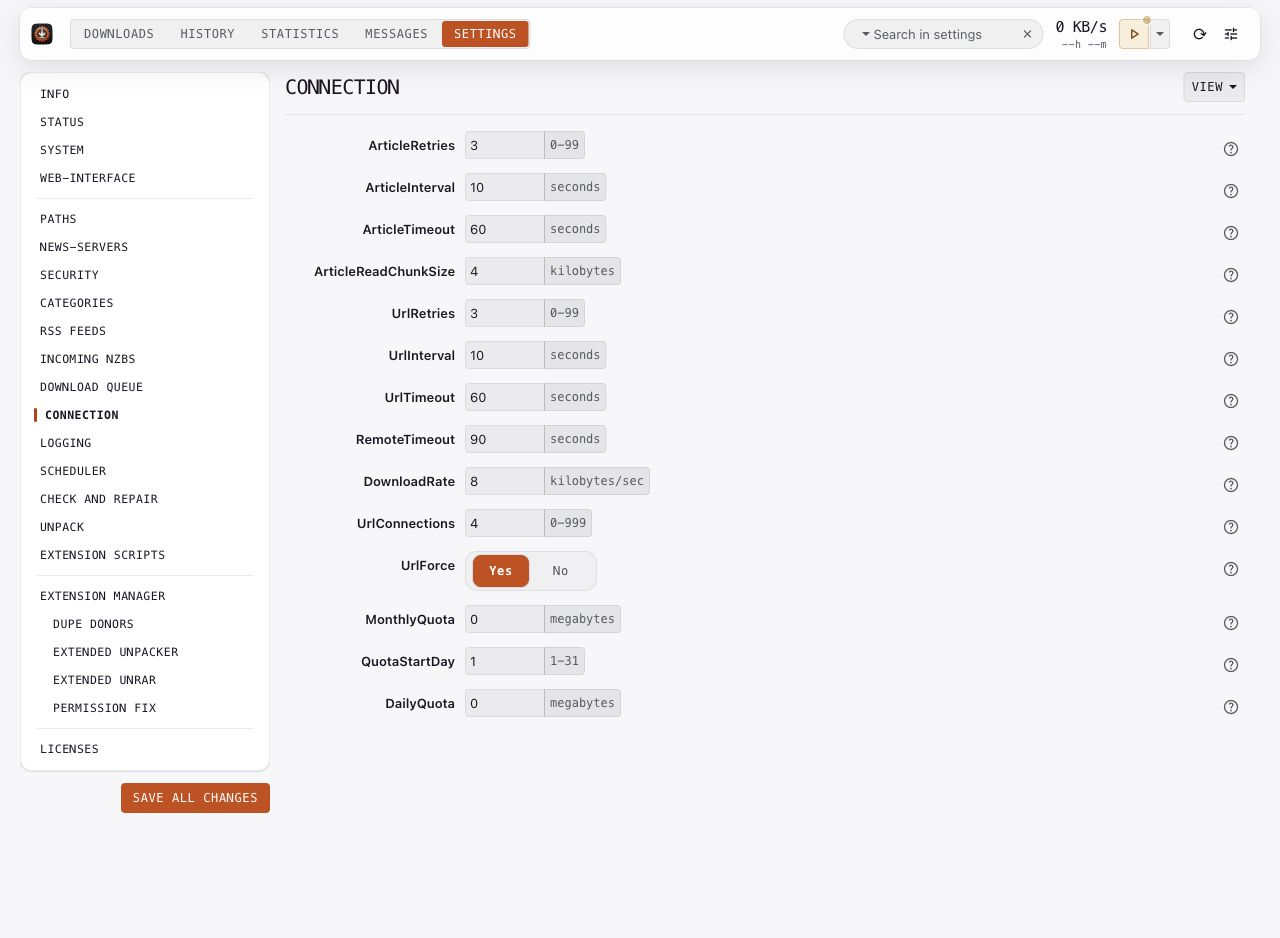
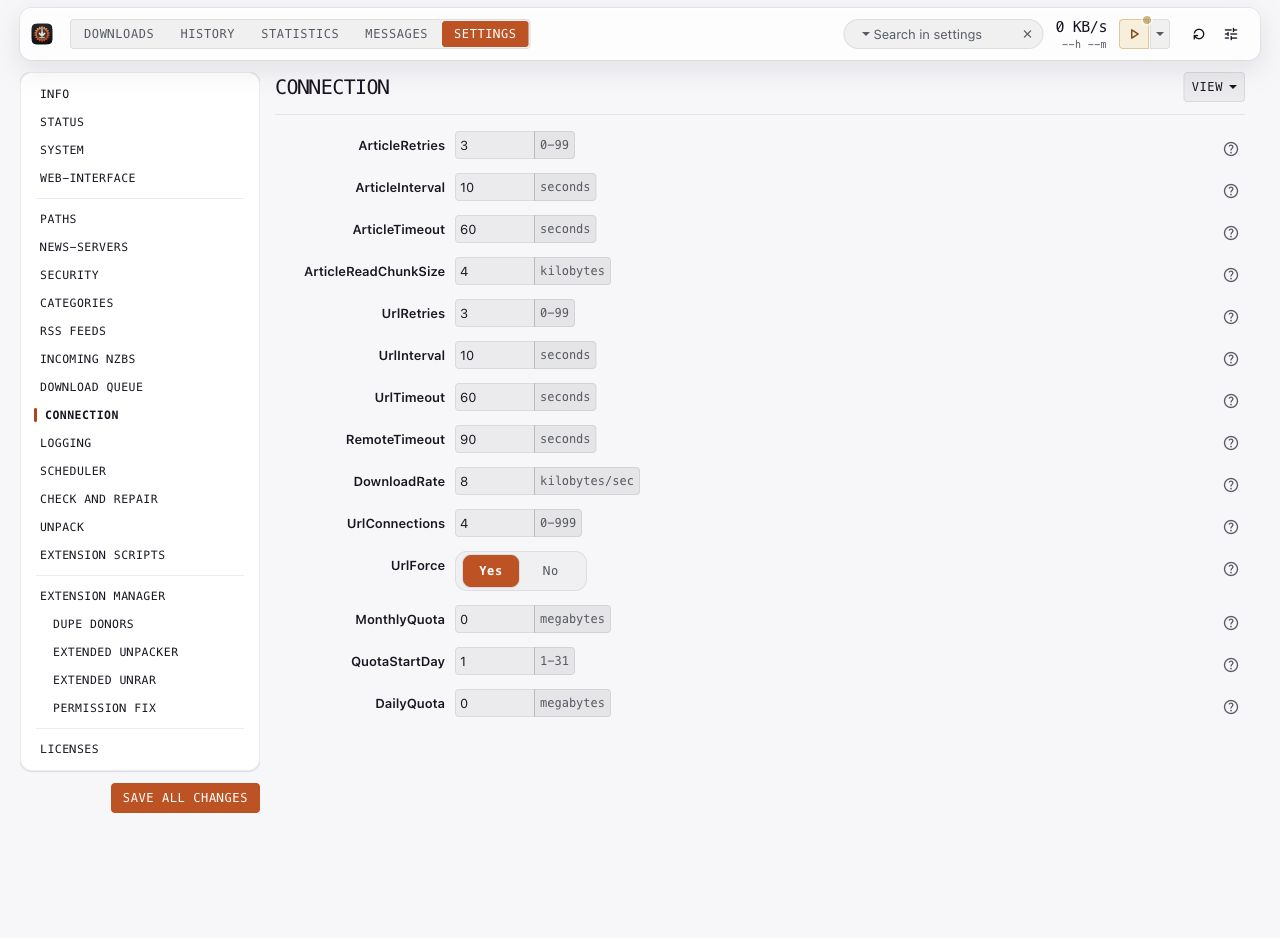
WebUI: use the desktop width for Settings and Statistics

diff --git a/tests/webui/full-width-layout.js b/tests/webui/full-width-layout.js
@@ -1,0 +1,44 @@
+// Real layout regression: desktop Settings must grow with the window, not center a capped form.
+const {chromium}=require('playwright');
+const assert=require('node:assert/strict');
+(async()=>{
+ const base=new URL(process.argv[2]);assert(['127.0.0.1','localhost'].includes(base.hostname)&&base.port,'Use an isolated loopback fixture');
+ const browser=await chromium.launch({channel:'chrome'});
+ try {for(const theme of ['light','dark']){
+  const context=await browser.newContext({viewport:{width:1280,height:900}});
+  await context.addInitScript(t=>localStorage.setItem('Theme',t),theme);
+  const page=await context.newPage();base.hash='settings';await page.goto(base.href);
+  await page.locator('#ConfigNav a[href="#CATEGORIES"]').waitFor({state:'visible'});
+  let previousWidth=0,previousAvailableWidth=0,railWidth=0;
+  for(const width of [769,800,1024,1280,1920,2560]){
+   await page.setViewportSize({width,height:900});
+   await page.locator('#ConfigNav a[href="#CATEGORIES"]').press('Enter');
+   await page.locator('.config__main').waitFor({state:'visible'});
+   const rail=await page.locator('.config__aside').boundingBox(),main=await page.locator('.config__main').boundingBox(),container=await page.locator('#MainContent').boundingBox(),layout=await page.locator('.config__container').boundingBox();
+   assert(rail.x-container.x<24,'Settings navigation stays at the left edge');
+   assert(main.x+main.width>=width-36,'Settings content reaches the right edge');
+   assert(main.x>=rail.x+rail.width&&main.x-rail.x-rail.width<=24,'Content remains beside navigation');
+   if(previousWidth){assert(main.width-previousWidth>=layout.width-previousAvailableWidth-2,'Extra available desktop width belongs to the content');assert(Math.abs(rail.width-railWidth)<2,'Navigation width stays stable');}
+   previousWidth=main.width;previousAvailableWidth=layout.width;railWidth=rail.width;
+   await page.locator('#ConfigNav a[href="#PATHS"]').press('Enter');
+   const fieldsFit=await page.locator('.control-group.PATHS input[type="text"]').evaluateAll(es=>{const right=document.querySelector('.config__main').getBoundingClientRect().right,visible=es.filter(e=>e.getBoundingClientRect().width>0);return visible.length>0&&visible.every(e=>e.getBoundingClientRect().right<=right);});
+   assert(fieldsFit,'Path editors remain inside the narrow desktop content pane');
+   await page.locator('#ConfigNav a[href="#Config-SystemInfo"]').press('Enter');
+   await page.locator('.config-status').waitFor({state:'visible'});
+   const status=await page.locator('.config-status').boundingBox();assert(status.x+status.width>=width-40,'Status panels fill the content area');
+   await page.locator('#StatisticsTabLink').click();
+   // The packaged fixture may offer unsaved defaults from this fork's newer template.
+   // Discard browser-only defaults; never save them to the fixture daemon.
+   if(await page.locator('#LeaveConfigDialog').isVisible())await page.locator('#LeaveConfigDialog .btn-danger').click();
+   await page.locator('#StatisticsTab').waitFor({state:'visible'});
+   const stats=await page.locator('#StatisticsTab').boundingBox();assert(stats.x<24&&stats.x+stats.width>=width-24,'Statistics fills the desktop');
+   await page.locator('#ConfigTabLink').click();
+   await page.locator('.config__main').waitFor({state:'visible'});
+   assert.equal(await page.evaluate(()=>document.documentElement.scrollWidth>innerWidth),false,'No horizontal page overflow');
+   console.log(`${theme}/${width}: full-width PASS`);
+  }
+  await page.setViewportSize({width:390,height:844});await page.locator('#ConfigNav a[href="#CATEGORIES"]').press('Enter');
+  assert((await page.locator('.config-list-row.CATEGORIES').first().boundingBox()).y<650,'Phone category list remains in first screen');
+  assert.equal(await page.evaluate(()=>document.documentElement.scrollWidth>innerWidth),false);await context.close();
+ }}finally{await browser.close();}
+})().catch(e=>{console.error(e.message);process.exitCode=1;});

diff --git a/webui/skin.css b/webui/skin.css
@@ -598,6 +598,34 @@ body.navfixed.scrolled #Navbar .navbar-inner {
 		height: calc(100vh - var(--navbar-space, 72px));
 		padding-top: 0;
 	}
+
+	/* Desktop sections use the full window beside a stable left navigation rail. */
+	.config__container {
+		justify-content: flex-start;
+	}
+
+	.config__aside {
+		flex: 0 0 240px;
+		min-width: 0;
+	}
+
+	.config__main {
+		flex: 1 1 0;
+		min-width: 0;
+		max-width: none;
+		width: auto;
+	}
+
+	.config-status {
+		max-width: none;
+	}
+
+	#StatisticsTab {
+		box-sizing: border-box;
+		max-width: none;
+		width: 100%;
+		margin: 0;
+	}
 }
 
 @media (max-width: 768px) {

diff --git a/site/content/settings.md b/site/content/settings.md
@@ -39,7 +39,7 @@ Use **Search in settings** to find an option name or description. Select an opti
 Option help starts collapsed. The question-mark button beside a row opens that option's help. The **View** menu can show help for all rows. With a keyboard, use Tab to reach a button and Enter or Space to activate it.
 
 <figure class="settings-figure">
-<a class="settings-shot" href="assets/settings/option-help.jpg" aria-label="Open full-size picture: option help"><img src="assets/settings/option-help.jpg" width="1280" height="1000" loading="lazy" alt="Expanded help for one browser preference"></a>
+<a class="settings-shot" href="assets/settings/option-help.jpg" aria-label="Open full-size picture: option help"><img src="assets/settings/option-help.jpg" width="1280" height="1100" loading="lazy" alt="Expanded help for one browser preference"></a>
 <figcaption>Help opens beside the option you are editing. Open the picture to inspect the full section.</figcaption>
 </figure>
 
@@ -51,6 +51,15 @@ Option help starts collapsed. The question-mark button beside a row opens that o
 4. Check **Status** and the **Messages** tab after the reload.
 
 Web-interface preferences belong to this browser. Server and extension settings belong to the daemon's configuration. See [Maintenance](settings-maintenance.md#system) before backing up or restoring that file.
+
+## Use the available desktop width
+
+On desktop, the section menu stays at the left edge while the open section fills the remaining width. Wider windows give lists, editors, and Status panels more room. Statistics also uses the available width.
+
+<figure class="settings-figure">
+<a class="settings-shot" href="assets/settings/desktop-wide.jpg" aria-label="Open full-size picture: Wide desktop Settings with a left section menu and compact categories"><img src="assets/settings/desktop-wide.jpg" width="1920" height="1080" loading="lazy" alt="Wide desktop Settings with a left section menu and compact categories"></a>
+<figcaption>The dark desktop view uses the space beside the section menu. Open the picture to inspect the full section.</figcaption>
+</figure>
 
 ## Use Settings on a phone
 

diff --git a/tests/webui/README.md b/tests/webui/README.md
@@ -5,6 +5,7 @@ the browser's unsaved configuration, and intercepts `saveconfig` before it reach
 the daemon.
 
 ```sh
+node tests/webui/full-width-layout.js http://127.0.0.1:17689/
 node tests/webui/settings-density.js http://127.0.0.1:17689/
 node tests/webui/settings-lists.js http://127.0.0.1:17689/
 node tests/webui/settings-list-health.js http://127.0.0.1:17689/
@@ -36,3 +37,7 @@ the first phone screen. Desktop retains the full menu in both themes.
 
 The title check returns repeatedly from Paths to all five static Settings pages
 and verifies their localized headings in English, German, and Turkish.
+
+The full-width check compares navigation and content bounds as the desktop window
+grows, verifies Status and Statistics use the available width in both themes,
+and retains the compact category view on a phone.

diff --git a/site/content/settings-maintenance.md b/site/content/settings-maintenance.md
@@ -30,6 +30,11 @@ Key options: [`SystemHealthCheck`](options.md#systemhealthcheck), [`WriteBuffer`
 <figcaption>These example status values are not a production health report. Open the picture to inspect the full section.</figcaption>
 </figure>
 
+<figure class="settings-figure">
+<a class="settings-shot" href="assets/settings/status-wide.jpg" aria-label="Open full-size picture: Wide dark Status panels beside the Settings menu"><img src="assets/settings/status-wide.jpg" width="1920" height="1080" loading="lazy" alt="Wide dark Status panels beside the Settings menu"></a>
+<figcaption>Status panels expand with the desktop window. Open the picture to inspect the full section.</figcaption>
+</figure>
+
 ## System
 
 Back up configuration before a substantial change:
